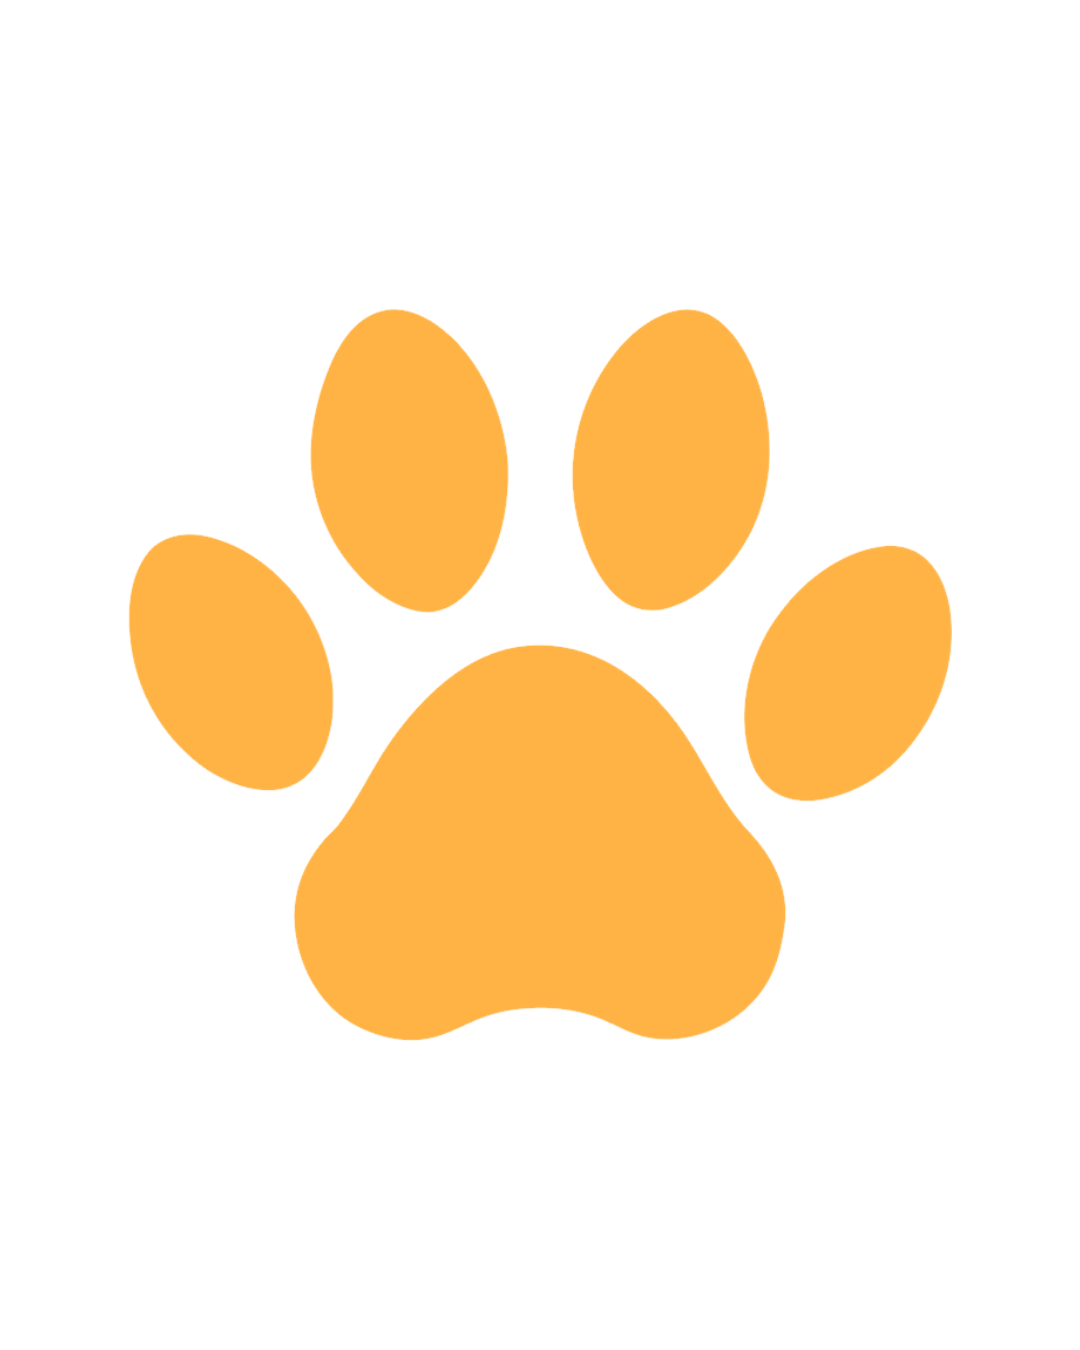
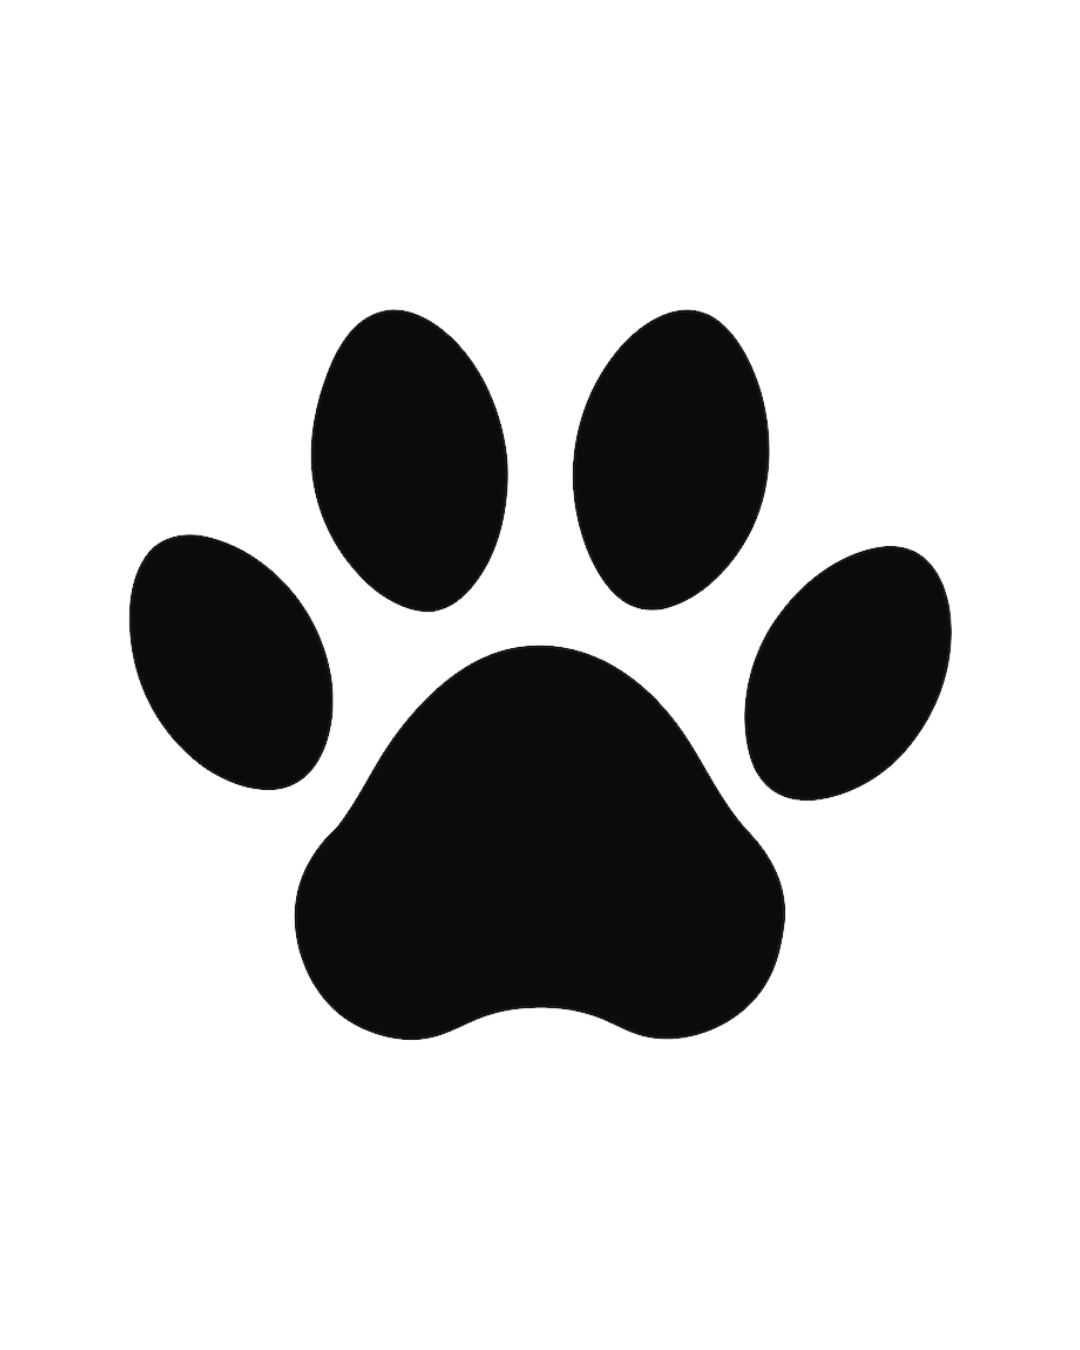
ajuste cursor patinha preto

diff --git a/nova vida pet/nova vida pet/css/styles.css b/nova vida pet/nova vida pet/css/styles.css
@@ -19,7 +19,7 @@ body {
   font-family: 'Nunito', sans-serif;
   overflow-x: hidden;
   zoom: 0.8;
-  cursor: url('patinhas-cursor.png') 24 24, auto;
+  cursor: url('patinhas-cursor.png') 19 24, auto;
 }
 
 @media (max-width: 1279px) {
@@ -92,7 +92,7 @@ body {
   font-family: 'Nunito', sans-serif;
   font-weight: 700;
   font-size: 15px;
-  cursor: url('patinhas-cursor.png') 24 24, pointer;
+  cursor: url('patinhas-cursor.png') 19 24, pointer;
   transition: opacity 0.2s;
 }
 
@@ -200,7 +200,7 @@ body {
   height: 48px;
   font-size: 28px;
   line-height: 1;
-  cursor: url('patinhas-cursor.png') 24 24, pointer;
+  cursor: url('patinhas-cursor.png') 19 24, pointer;
   color: #1e4727;
   box-shadow: 0 2px 8px rgba(0, 0, 0, 0.18);
   transition: background 0.2s;
@@ -229,7 +229,7 @@ body {
   height: 12px;
   border-radius: 50%;
   background: rgba(255, 255, 255, 0.55);
-  cursor: url('patinhas-cursor.png') 24 24, pointer;
+  cursor: url('patinhas-cursor.png') 19 24, pointer;
   transition: background 0.3s;
 }
 
@@ -635,7 +635,7 @@ body {
   display: flex;
   align-items: center;
   justify-content: center;
-  cursor: url('patinhas-cursor.png') 24 24, pointer;
+  cursor: url('patinhas-cursor.png') 19 24, pointer;
   box-shadow: 0 3px 10px rgba(0, 0, 0, 0.22);
   color: #ccc;
   transition: transform 0.2s ease, color 0.2s ease;
@@ -690,7 +690,7 @@ body {
   font-family: 'Nunito', sans-serif;
   font-weight: 700;
   font-size: 18px;
-  cursor: url('patinhas-cursor.png') 24 24, pointer;
+  cursor: url('patinhas-cursor.png') 19 24, pointer;
   transition: opacity 0.2s;
 }
 
@@ -791,14 +791,14 @@ body {
   display: flex;
   align-items: center;
   gap: 10px;
-  cursor: url('patinhas-cursor.png') 24 24, pointer;
+  cursor: url('patinhas-cursor.png') 19 24, pointer;
 }
 
 .checkboxes input[type="checkbox"] {
   width: 20px;
   height: 20px;
   accent-color: #f06292;
-  cursor: url('patinhas-cursor.png') 24 24, pointer;
+  cursor: url('patinhas-cursor.png') 19 24, pointer;
   flex-shrink: 0;
 }
 
@@ -817,7 +817,7 @@ body {
   font-size: 18px;
   font-weight: 600;
   color: #555;
-  cursor: url('patinhas-cursor.png') 24 24, pointer;
+  cursor: url('patinhas-cursor.png') 19 24, pointer;
   transition: all 0.2s;
 }
 
@@ -847,7 +847,7 @@ body {
   font-family: 'Nunito', sans-serif;
   font-weight: 700;
   font-size: 20px;
-  cursor: url('patinhas-cursor.png') 24 24, pointer;
+  cursor: url('patinhas-cursor.png') 19 24, pointer;
   transition: opacity 0.2s;
 }
 
@@ -862,7 +862,7 @@ body {
   font-family: 'Nunito', sans-serif;
   font-weight: 700;
   font-size: 20px;
-  cursor: url('patinhas-cursor.png') 24 24, pointer;
+  cursor: url('patinhas-cursor.png') 19 24, pointer;
   transition: opacity 0.2s;
 }
 
@@ -928,7 +928,7 @@ body {
   font-family: 'Nunito', sans-serif;
   font-weight: 700;
   font-size: 20px;
-  cursor: url('patinhas-cursor.png') 24 24, pointer;
+  cursor: url('patinhas-cursor.png') 19 24, pointer;
   transition: opacity 0.2s;
 }
 
@@ -1010,7 +1010,7 @@ body {
   border: none;
   font-size: 24px;
   color: #bbb;
-  cursor: url('patinhas-cursor.png') 24 24, pointer;
+  cursor: url('patinhas-cursor.png') 19 24, pointer;
   text-decoration: none;
   line-height: 1;
   transition: color 0.2s;
@@ -1085,7 +1085,7 @@ body {
   align-items: center;
   justify-content: center;
   flex-shrink: 0;
-  cursor: url('patinhas-cursor.png') 24 24, pointer;
+  cursor: url('patinhas-cursor.png') 19 24, pointer;
   box-shadow: 0 3px 10px rgba(0, 0, 0, 0.22);
   color: #ccc;
   transition: transform 0.2s ease, color 0.2s ease;
@@ -1109,7 +1109,7 @@ body {
   font-family: 'Nunito', sans-serif;
   font-weight: 700;
   font-size: 21px;
-  cursor: url('patinhas-cursor.png') 24 24, pointer;
+  cursor: url('patinhas-cursor.png') 19 24, pointer;
   transition: opacity 0.2s;
 }
 
@@ -1416,7 +1416,7 @@ body {
   font-size: 50px;
   font-weight: 700;
   color: #1e4727;
-  cursor: url('patinhas-cursor.png') 24 24, pointer;
+  cursor: url('patinhas-cursor.png') 19 24, pointer;
   transition: all 0.25s ease;
   border: 2.5px solid transparent;
 }
@@ -1451,7 +1451,7 @@ body {
   font-family: 'Nunito', sans-serif;
   font-weight: 700;
   font-size: 24px;
-  cursor: url('patinhas-cursor.png') 24 24, pointer;
+  cursor: url('patinhas-cursor.png') 19 24, pointer;
   transition: all 0.25s ease;
   box-shadow: 0 6px 20px rgba(246, 179, 71, 0.42);
   margin-bottom: 18px;
@@ -1718,7 +1718,7 @@ body {
   gap: 16px;
   padding: 20px 0;
   border-bottom: 1px solid #f0f0f0;
-  cursor: url('patinhas-cursor.png') 24 24, pointer;
+  cursor: url('patinhas-cursor.png') 19 24, pointer;
 }
 
 .metodo-item:last-child { border-bottom: none; }
@@ -1727,7 +1727,7 @@ body {
   width: 20px;
   height: 20px;
   accent-color: #F6B347;
-  cursor: url('patinhas-cursor.png') 24 24, pointer;
+  cursor: url('patinhas-cursor.png') 19 24, pointer;
   flex-shrink: 0;
 }
 
@@ -2099,7 +2099,7 @@ body {
   font-family: 'Nunito', sans-serif;
   font-weight: 700;
   font-size: 26px;
-  cursor: url('patinhas-cursor.png') 24 24, pointer;
+  cursor: url('patinhas-cursor.png') 19 24, pointer;
   transition: opacity 0.2s;
   margin-top: 10px;
 }
@@ -2209,14 +2209,14 @@ body {
   font-size: 20px;
   color: #555;
   margin-bottom: 20px;
-  cursor: url('patinhas-cursor.png') 24 24, pointer;
+  cursor: url('patinhas-cursor.png') 19 24, pointer;
 }
 
 .entrar-check input[type="checkbox"] {
   width: 22px;
   height: 22px;
   accent-color: #F6B347;
-  cursor: url('patinhas-cursor.png') 24 24, pointer;
+  cursor: url('patinhas-cursor.png') 19 24, pointer;
   flex-shrink: 0;
 }
 
@@ -2242,7 +2242,7 @@ body {
   font-family: 'Nunito', sans-serif;
   font-weight: 700;
   font-size: 26px;
-  cursor: url('patinhas-cursor.png') 24 24, pointer;
+  cursor: url('patinhas-cursor.png') 19 24, pointer;
   transition: opacity 0.2s;
   margin-bottom: 28px;
 }
